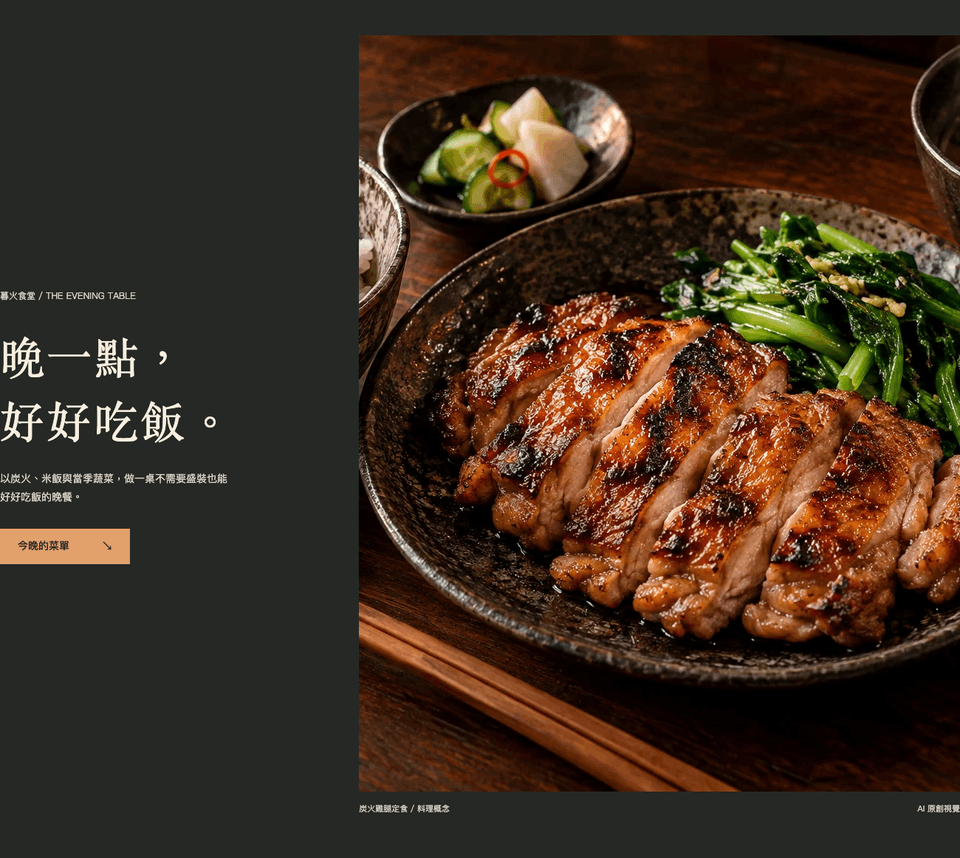
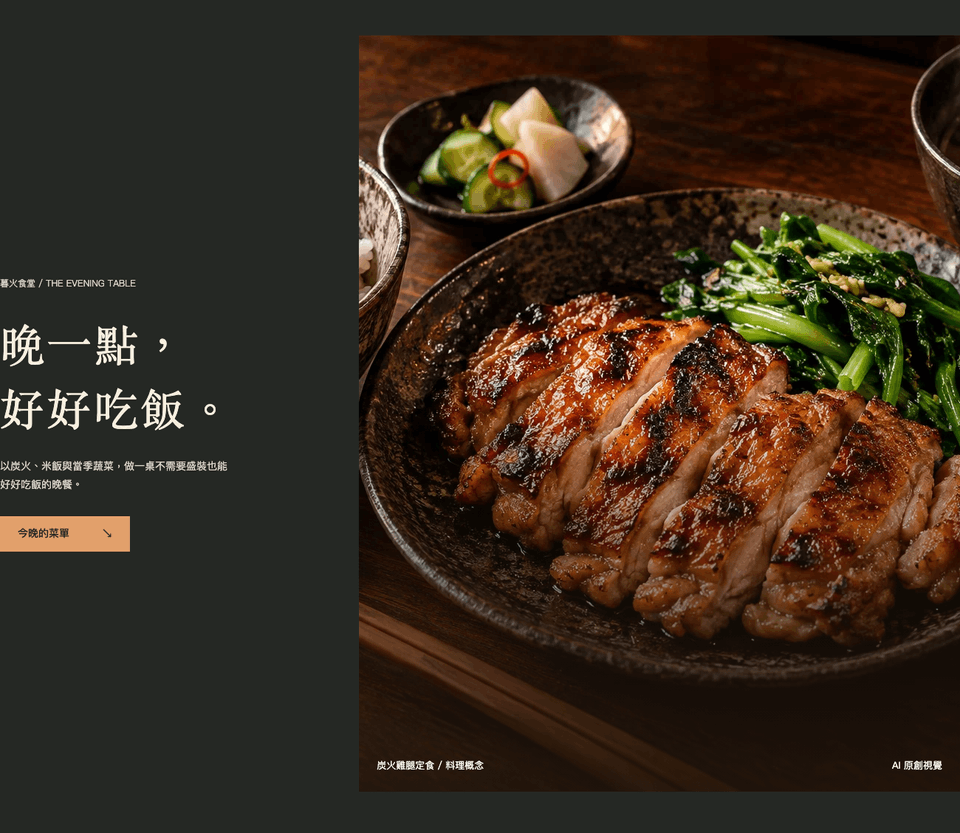
Reduce phone preview heights and refresh interactive demo thumbnails

diff --git a/styles.css b/styles.css
@@ -1800,3 +1800,14 @@ section {
 
 .industry-gallery{margin-top:36px;padding-top:28px;border-top:1px solid var(--line)}.industry-gallery>h3{font-size:19px;margin:0 0 20px}.industry-grid{display:grid;grid-template-columns:repeat(3,minmax(0,1fr));gap:20px}.industry-card{display:block;min-width:0;background:var(--paper);border:1px solid var(--line);border-radius:14px;overflow:hidden}.industry-card img{display:block;width:100%;height:180px;object-fit:cover;object-position:center;border-radius:0;border:0}.industry-card>div{padding:18px}.industry-card span{color:var(--ink-soft);font-size:12px}.industry-card h4{margin:6px 0 12px;font-size:18px;line-height:1.6}.industry-card b{font-size:13px;color:var(--blue)}.app-screen-gallery{margin-top:40px}.app-screen-gallery h4{font-size:19px;line-height:1.6;margin:0 0 14px}.image-expand{display:block}.image-expand:focus-visible{outline-offset:4px}.zoom-note{display:block;color:var(--blue);margin-top:6px;font-size:12px}.product-requirements{margin-top:32px;padding:28px;background:#edf1ff;border-radius:16px}.product-requirements ul{margin:0;padding-left:22px;display:grid;gap:14px}.product-requirements li{line-height:1.9}.product-requirements p{margin:20px 0 8px}.product-requirements b{color:var(--ink)}
 @media(max-width:760px){.industry-grid{grid-template-columns:1fr;gap:20px}.industry-card{display:grid;grid-template-columns:44% minmax(0,1fr)}.industry-card img{height:100%;min-height:145px;object-fit:cover}.industry-card>div{padding:16px}.industry-card h4{font-size:16px;margin:6px 0 10px}.industry-card span,.industry-card b{font-size:11px}.product-requirements{padding:22px}.app-screen-gallery h4{font-size:18px}}
+
+/* Compact phone previews; preserve full-size image links and desktop artwork. */
+@media(max-width:600px){
+ .hero-preview>a>img{height:160px;object-fit:contain;object-position:center;background:#f1f4f6}
+ .work-card>img{height:180px;object-fit:contain;object-position:center;background:#f1f4f6}
+ .industry-card{align-items:center;min-height:130px}
+ .industry-card img{height:120px;min-height:0;object-fit:contain;object-position:center;background:#f1f4f6}
+ .showcase #website>a>img{height:clamp(150px,48vw,200px);max-height:200px;object-fit:contain;background:#f1f4f6}
+ .app-figure img{height:clamp(150px,46vw,190px);max-height:190px;object-fit:contain;background:#f1f4f6}
+ .app-figure{margin:22px 0}
+}
